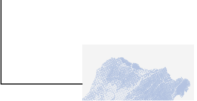
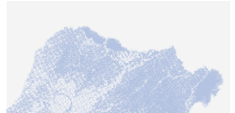
add background and audio btn animation

diff --git a/street.html b/street.html
@@ -17,7 +17,7 @@
             top: 0;
             left: 0;
             width: 100%;
-            height: 15vh;
+            height: 20vh;
             background-color: white;
             display: flex;
             justify-content: center;
@@ -28,6 +28,48 @@
             position: absolute;
             top: 30%;
             z-index: 10;
+            width: 70%;
+            visibility: hidden;
+            transition-duration: 0.3s;
+            transition-property: ocacity;
+        }
+
+        .music-block .detail-street-img {
+            position: absolute;
+            bottom: 0;
+            width: 30%;
+            z-index: 2;
+            left: 25%;
+            background-color: white;
+        }
+
+        .music-block .angle {
+            position: absolute;
+            border: #000;
+            border-width: 0.1rem;
+            width: 33%;
+            height: 53%;
+            border-bottom-style: solid;
+            border-left-style: solid;
+            bottom: 8%;
+            left: 5%;
+            z-index: 1;
+        }
+
+        .music-block .arrow-btn {
+            position: absolute;
+            width: 5vw;
+            height: 5vw;
+            z-index: 20;
+            bottom: 50%;
+            left: 7%;
+            transition-duration: 0.3s;
+            transition-property: transform;
+        }
+
+        .arrow-btn img {
+            width: 100%;
+            height: 100%;
         }
 
         .video-block {
@@ -50,6 +92,7 @@
 
         .video-block-intro {
             padding-inline-start: 0.15rem;
+            padding-top: 2.5rem;
             position: relative;
             color: black;
         }
@@ -68,10 +111,11 @@
 
         .video-block-intro-3d {
             position: absolute;
-            left: 30%;
+            left: 40%;
             top: -40%;
             width: 30%;
             aspect-ratio: 1;
+            z-index: 3;
         }
 
         .video-block-video-block {
@@ -128,7 +172,7 @@
             max-width: 53ch;
         }
 
-        .btn {
+        .top-btn {
             position: fixed;
             bottom: 5px;
             right: 0;
@@ -137,10 +181,11 @@
             z-index: 100;
         }
 
-        .btn img {
+        .top-btn img {
             width: 100%;
             height: 100%;
         }
+
     </style>
     <script async src="https://unpkg.com/es-module-shims/dist/es-module-shims.js"></script>
 
@@ -155,7 +200,12 @@
 
 <body>
     <div class="music-block">
-        <audio controls src="/assets/test.mp3"></audio>
+        <div class="arrow-btn">
+            <img src="/assets/arrow-btn.png" />
+        </div>
+        <img class="detail-street-img" src="/assets/detail_street.png" />
+        <div class="angle"></div>
+        <audio id="music" controls src="/assets/test.mp3"></audio>
     </div>
     <article>
         <section class="video-block">
@@ -196,7 +246,7 @@
                     friendliness.</p>
             </div>
         </section>
-        <div class="btn" data-action="gotop">
+        <div class="top-btn" data-action="gotop">
             <img src="/assets/btn.png"/>
         </div>
     </article>
@@ -227,6 +277,22 @@
                 top: 0,
                 behavior: 'smooth'
             });
+        });
+    });
+
+    document.addEventListener('DOMContentLoaded', function () {
+        var aduioButton = document.querySelector('.arrow-btn');
+        var music = document.getElementById("music");
+        aduioButton.addEventListener('click', function () {
+            if (aduioButton.style.transform == 'rotate(90deg)'){
+                aduioButton.style.transform = 'rotate(0deg)';
+                music.style.visibility = 'hidden';
+            } else {
+                aduioButton.style.transform = 'rotate(90deg)';
+                music.style.visibility = 'visible';
+            }
+            
+            console.log('click');
         });
     });
 </script>
